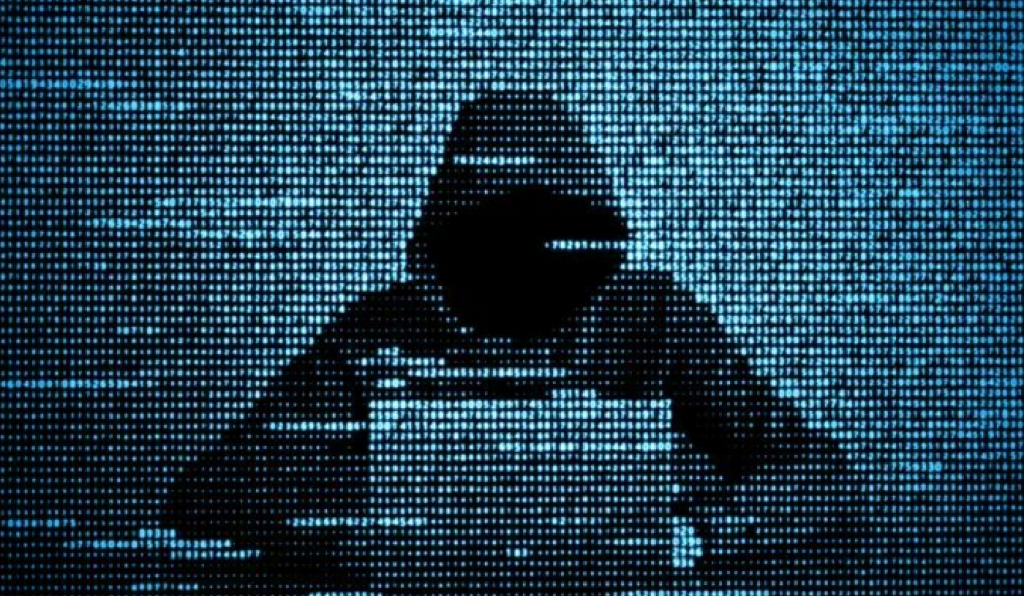
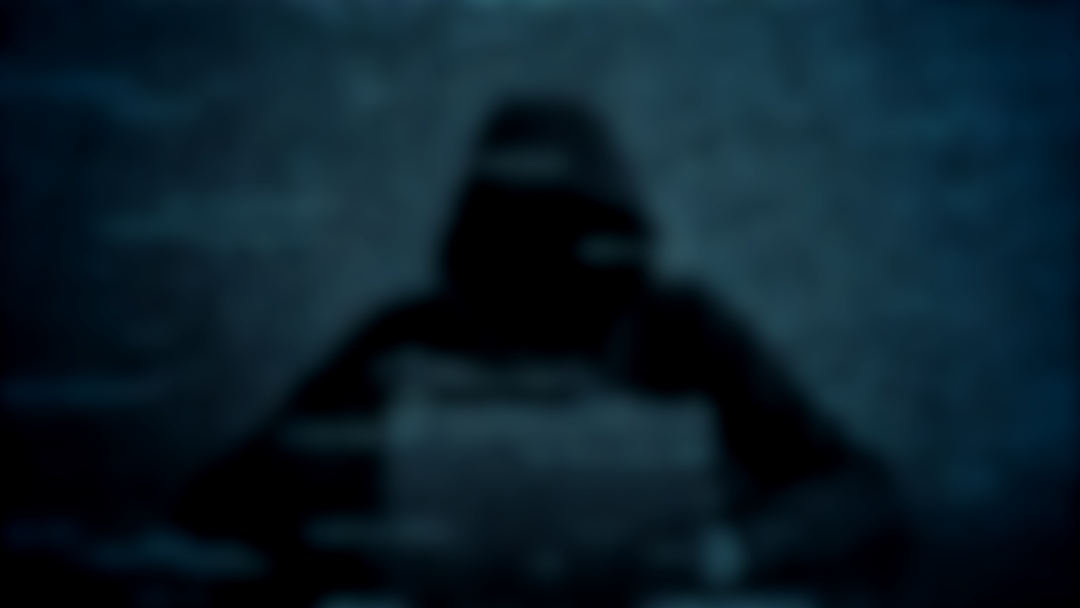
MOD= agregar imagen de fondo en cursos (19/19)

diff --git a/conocimientos.html b/conocimientos.html
@@ -270,7 +270,9 @@
         /*IMAGENES DIFUMINADAS PARA CURSOS*/
         #img-python3, #img-git, #img-docker, #img-cisco, #img-devops,
         #img-cisco, #img-git2, #img-redes3, #img-redes, #img-fibra,
-        #img-linux{
+        #img-linux, #img-ciberseg, #img-arduino, #img-win,
+        #img-active_directory, #img-notebook, #img-jira, #img-pc,
+        #img-industrial, #img-scrum{
             background-position: center;
             background-size: cover;
             width: auto;
@@ -307,6 +309,34 @@
         #img-linux {
             background-image: url(imagenes/difuminado/linux.jpg);
         }
+        #img-ciberseg {
+            background-image: url(imagenes/difuminado/ciberseg.png);
+        }
+        #img-win {
+            background-image: url(imagenes/difuminado/win.jpg);
+        }
+        #img-arduino {
+            background-image: url(imagenes/difuminado/arduino.jpg);
+        }
+        #img-active_directory {
+            background-image: url(imagenes/difuminado/active-directory.png);
+        }
+        #img-notebook {
+            background-image: url(imagenes/difuminado/notebook.jpg);
+        }
+        #img-jira {
+            background-image: url(imagenes/difuminado/jira.png);
+        }
+        #img-pc {
+            background-image: url(imagenes/difuminado/pc.jpg);
+        }
+        #img-industrial {
+            background-image: url(imagenes/difuminado/industrial.jpg);
+        }
+        #img-scrum {
+            background-image: url(imagenes/difuminado/scrum.jpeg);
+        }
+
     </style>
 </head>
 <body>
@@ -413,55 +443,55 @@
                 <a href="https://ude.my/UC-24f5e79f-3774-49d9-81cf-e0620a3b1234">Visualizar Certificado</a>
             </div>
         
-            <div class="course">
+            <div class="course" id="img-ciberseg">
                 <h2>Introduction to Cybersecurity (CISCO NETWORKING)</h2>
                 <p>Conceptos de ciberseguridad, protección de datos y seguridad en redes.</p>
                 <a href="https://www.credly.com/badges/64309590-5745-43ef-a05a-bb084fa1481c/public_url">Visualizar Certificado</a>
             </div>
         
-            <div class="course">
+            <div class="course" id="img-win">
                 <h2>Administración Avanzada de Windows</h2>
                 <p>Administración avanzada de sistemas operativos Windows, configuración y resolución de problemas.</p>
                 <a href="https://ude.my/UC-340d0eee-d1a4-43ca-938c-e6a76130d495">Visualizar Certificado</a>
             </div>
         
-            <div class="course">
+            <div class="course" id="img-arduino">
                 <h2>Arduino electrónica y programación C desde cero</h2>
                 <p>Programación en C para proyectos de electrónica utilizando la plataforma Arduino.</p>
                 <a href="https://ude.my/UC-6a4a3879-96bf-4567-b4e3-8da7aaf69eb7">Visualizar Certificado</a>
             </div>
         
-            <div class="course">
+            <div class="course" id="img-active_directory">
                 <h2>Servicio de Dominio de Active Directory</h2>
                 <p>Administración de redes con Active Directory, creación y gestión de usuarios y políticas.</p>
                 <a href="https://ude.my/UC-537ae00e-e8d7-4098-94e2-3c1e24838a88">Visualizar Certificado</a>
             </div>
         
-            <div class="course">
+            <div class="course" id="img-notebook">
                 <h2>Curso de Reparación de Laptops</h2>
                 <p>Diagnóstico y reparación de hardware y software en equipos portátiles.</p>
                 <a href="https://ude.my/UC-82001a0d-a750-4b71-b13b-cfa180a47d8e">Visualizar Certificado</a>
             </div>
         
-            <div class="course">
+            <div class="course" id="img-jira">
                 <h2>Scrum con Jira - Metodología Agile [2023]</h2>
                 <p>Implementación de la metodología Agile con Jira para gestión de proyectos.</p>
                 <a href="https://ude.my/UC-7dce1a9f-5e94-46e9-b5cd-3c080f0a42fd">Visualizar Certificado</a>
             </div>
         
-            <div class="course">
+            <div class="course" id="img-pc">
                 <h2>Curso de reparación de Computadoras Desde Cero</h2>
                 <p>Reparación de equipos de escritorio, diagnóstico y resolución de problemas de hardware y software.</p>
                 <a href="https://ude.my/UC-82001a0d-a750-4b71-b13b-cfa180a47d8e">Visualizar Certificado</a>
             </div>
         
-            <div class="course">
+            <div class="course" id="img-industrial">
                 <h2>Soporte Técnico a Computadoras en Entornos Corporativos</h2>
                 <p>Soporte técnico en redes y sistemas en entornos empresariales.</p>
                 <a href="https://ude.my/UC-7a96d481-a97c-43e9-b744-9b5bf22679aa">Visualizar Certificado</a>
             </div>
         
-            <div class="course">
+            <div class="course" id="img-scrum">
                 <h2>[2023] Scrum Master Certificación</h2>
                 <p>Certificación Scrum Master para liderar equipos bajo metodologías ágiles.</p>
                 <a href="https://ude.my/UC-b327bca0-296c-444b-a1bd-7169c4a3654a">Visualizar Certificado</a>
